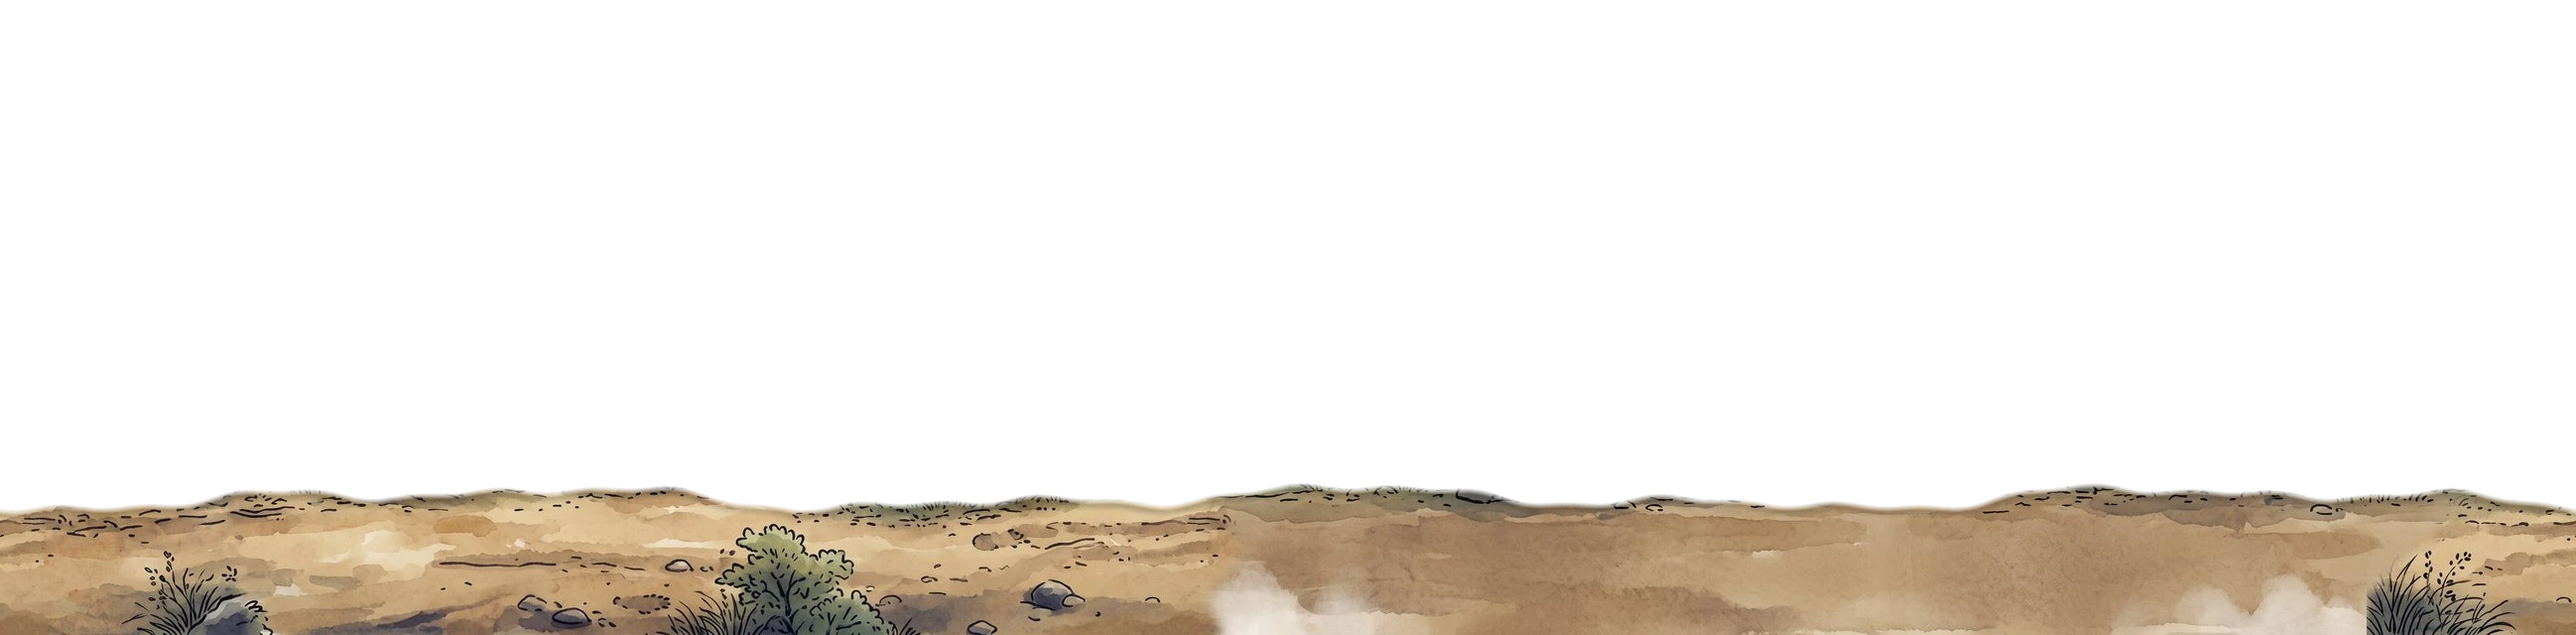
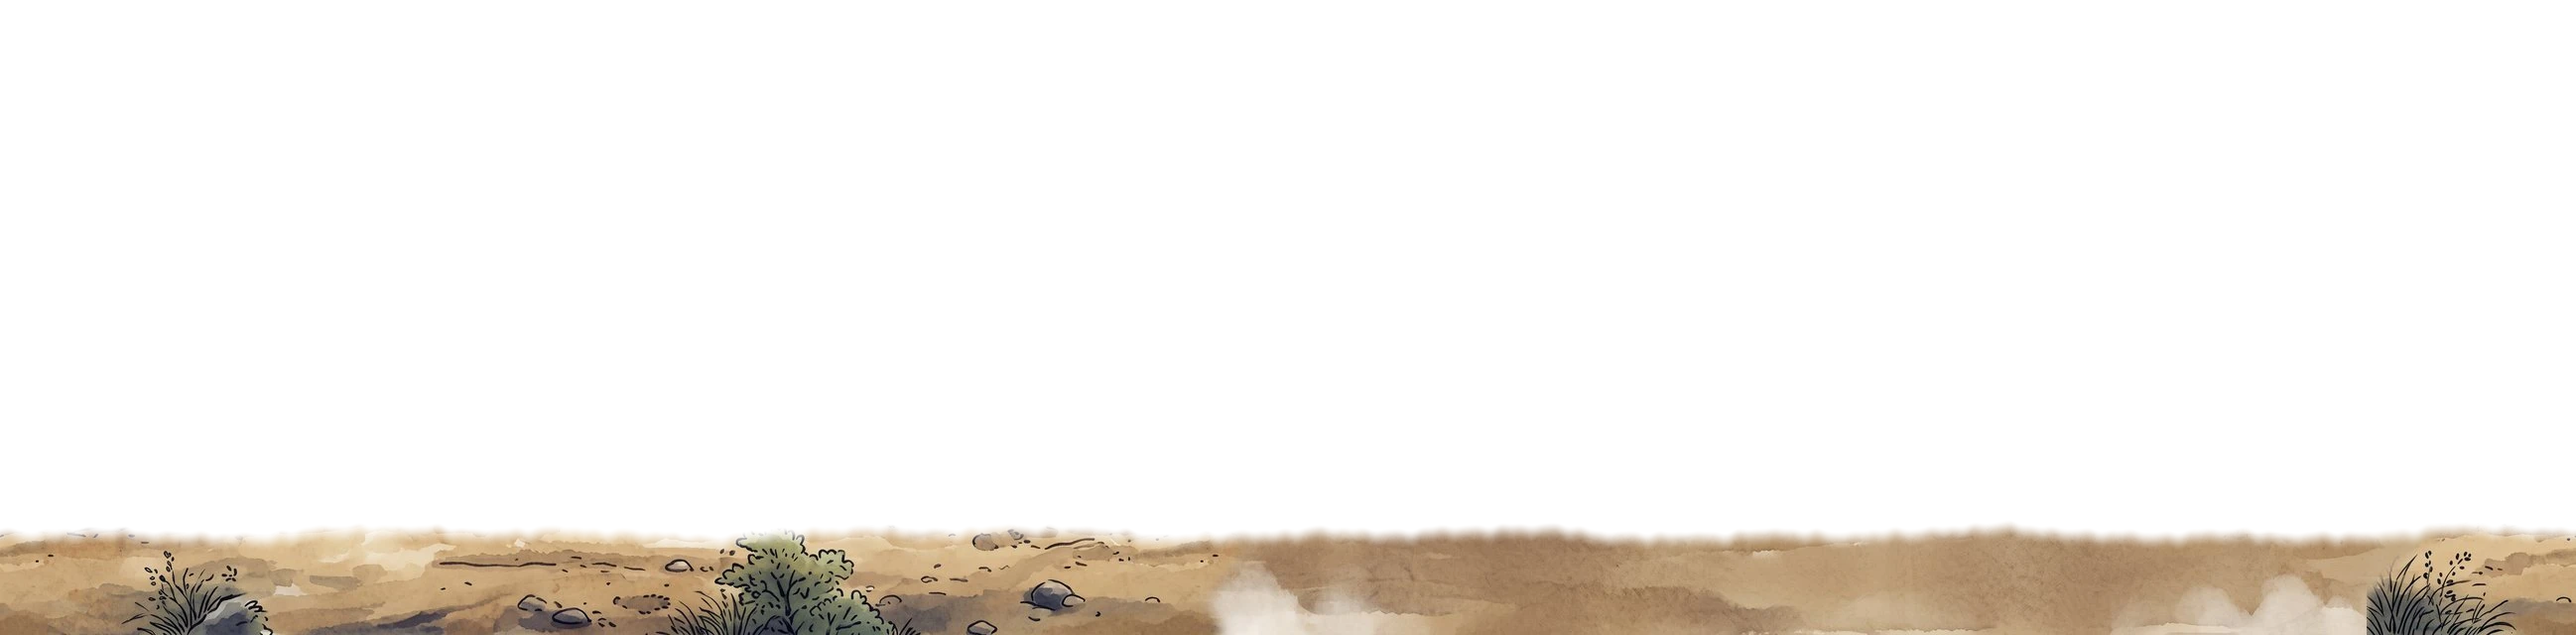
강호행: 땅 경계를 흙길 안쪽 붓질 가장자리로(찰흙 느낌 제거), 체력패를 좌상단 · 우상단에 고정(얼굴 · 이름 · 막대 · 숫자)
Claude-Session: https://claude.ai/code/session_014Zip1uwnj8BdcRP6c2R4vj

Changed region(s): [[0.0, 0.75, 1.0, 0.875]]

diff --git a/gangho/index.html b/gangho/index.html
@@ -2,21 +2,21 @@
 <html lang="ko">
 <head>
 <meta charset="utf-8">
-<meta name="game-ver" content="202610010426">
+<meta name="game-ver" content="202610010439">
 <meta name="viewport" content="width=device-width, initial-scale=1, viewport-fit=cover">
 <title>강호견문록</title>
 <link rel="preconnect" href="https://fonts.googleapis.com">
 <link rel="preconnect" href="https://fonts.gstatic.com" crossorigin>
 <link rel="stylesheet" href="https://fonts.googleapis.com/css2?family=Noto+Sans+KR:wght@400;500;700;900&family=Noto+Serif+KR:wght@400;600;700;900&display=swap">
-<link rel="stylesheet" href="css/main.css?v=202610010426">
-<link rel="stylesheet" href="css/combat.css?v=202610010426">
-<link rel="stylesheet" href="css/character.css?v=202610010426">
-<link rel="stylesheet" href="css/effects.css?v=202610010426">
-<link rel="stylesheet" href="css/art.css?v=202610010426">
+<link rel="stylesheet" href="css/main.css?v=202610010439">
+<link rel="stylesheet" href="css/combat.css?v=202610010439">
+<link rel="stylesheet" href="css/character.css?v=202610010439">
+<link rel="stylesheet" href="css/effects.css?v=202610010439">
+<link rel="stylesheet" href="css/art.css?v=202610010439">
 <link rel="preconnect" href="https://fonts.googleapis.com">
 <link rel="stylesheet" href="https://fonts.googleapis.com/css2?family=Nanum+Brush+Script&display=swap">
-<link rel="stylesheet" href="css/polish.css?v=202610010426">
-<link rel="stylesheet" href="css/admin.css?v=202610010426">
+<link rel="stylesheet" href="css/polish.css?v=202610010439">
+<link rel="stylesheet" href="css/admin.css?v=202610010439">
 </head>
 <body>
 <div class="app">
@@ -36,45 +36,45 @@
 <div id="modal" class="modal" hidden></div>
 <div id="toasts" class="toasts"></div>
 <!-- 읽는 순서: 공용 도구 → 데이터(SSOT) → 시스템(규칙) → 화면 → 초기화 -->
-<script src="js/core.js?v=202610010426"></script>
-<script src="js/data/assets.js?v=202610010426"></script>
-<script src="js/data/martial_arts.js?v=202610010426"></script>
-<script src="js/data/skills.js?v=202610010426"></script>
-<script src="js/data/items.js?v=202610010426"></script>
-<script src="js/data/recipes.js?v=202610010426"></script>
-<script src="js/data/monsters.js?v=202610010426"></script>
-<script src="js/data/drops.js?v=202610010426"></script>
-<script src="js/data/areas.js?v=202610010426"></script>
-<script src="js/data/encyclopedia_rewards.js?v=202610010426"></script>
-<script src="js/data/maps.js?v=202610010426"></script>
-<script src="js/data/sect.js?v=202610010426"></script>
-<script src="js/systems/stats_engine.js?v=202610010426"></script>
-<script src="js/systems/growth_engine.js?v=202610010426"></script>
-<script src="js/systems/inventory_engine.js?v=202610010426"></script>
-<script src="js/systems/crafting_engine.js?v=202610010426"></script>
-<script src="js/systems/expedition_engine.js?v=202610010426"></script>
-<script src="js/systems/combat_engine.js?v=202610010426"></script>
-<script src="js/systems/encyclopedia_engine.js?v=202610010426"></script>
-<script src="js/systems/sect_engine.js?v=202610010426"></script>
-<script src="js/systems/ai_engine.js?v=202610010426"></script>
-<script src="js/ui/ui_assets.js?v=202610010426"></script>
-<script src="js/ui/ui_tabs.js?v=202610010426"></script>
-<script src="js/ui/ui_logger.js?v=202610010426"></script>
-<script src="js/ui/ui_feedback.js?v=202610010426"></script>
-<script src="js/ui/ui_art.js?v=202610010426"></script>
-<script src="js/ui/ui_views.js?v=202610010426"></script>
-<script src="js/ui/ui_furnace.js?v=202610010426"></script>
-<script src="js/ui/ui_encyclopedia.js?v=202610010426"></script>
-<script src="js/ui/ui_live.js?v=202610010426"></script>
-<script src="js/ui/ui_field.js?v=202610010426"></script>
-<script src="js/ui/ui_replay.js?v=202610010426"></script>
-<script src="js/ui/ui_sprite.js?v=202610010426"></script>
-<script src="js/ui/ui_modals.js?v=202610010426"></script>
-<script src="js/ui/ui_input.js?v=202610010426"></script>
-<script src="js/ui/ui_admin.js?v=202610010426"></script>
-<script src="js/ui/ui_cloud.js?v=202610010426"></script>
-<script src="js/ui/ui_supa.js?v=202610010426"></script>
-<script src="js/ui/ui_auth.js?v=202610010426"></script>
-<script src="js/app.js?v=202610010426"></script>
+<script src="js/core.js?v=202610010439"></script>
+<script src="js/data/assets.js?v=202610010439"></script>
+<script src="js/data/martial_arts.js?v=202610010439"></script>
+<script src="js/data/skills.js?v=202610010439"></script>
+<script src="js/data/items.js?v=202610010439"></script>
+<script src="js/data/recipes.js?v=202610010439"></script>
+<script src="js/data/monsters.js?v=202610010439"></script>
+<script src="js/data/drops.js?v=202610010439"></script>
+<script src="js/data/areas.js?v=202610010439"></script>
+<script src="js/data/encyclopedia_rewards.js?v=202610010439"></script>
+<script src="js/data/maps.js?v=202610010439"></script>
+<script src="js/data/sect.js?v=202610010439"></script>
+<script src="js/systems/stats_engine.js?v=202610010439"></script>
+<script src="js/systems/growth_engine.js?v=202610010439"></script>
+<script src="js/systems/inventory_engine.js?v=202610010439"></script>
+<script src="js/systems/crafting_engine.js?v=202610010439"></script>
+<script src="js/systems/expedition_engine.js?v=202610010439"></script>
+<script src="js/systems/combat_engine.js?v=202610010439"></script>
+<script src="js/systems/encyclopedia_engine.js?v=202610010439"></script>
+<script src="js/systems/sect_engine.js?v=202610010439"></script>
+<script src="js/systems/ai_engine.js?v=202610010439"></script>
+<script src="js/ui/ui_assets.js?v=202610010439"></script>
+<script src="js/ui/ui_tabs.js?v=202610010439"></script>
+<script src="js/ui/ui_logger.js?v=202610010439"></script>
+<script src="js/ui/ui_feedback.js?v=202610010439"></script>
+<script src="js/ui/ui_art.js?v=202610010439"></script>
+<script src="js/ui/ui_views.js?v=202610010439"></script>
+<script src="js/ui/ui_furnace.js?v=202610010439"></script>
+<script src="js/ui/ui_encyclopedia.js?v=202610010439"></script>
+<script src="js/ui/ui_live.js?v=202610010439"></script>
+<script src="js/ui/ui_field.js?v=202610010439"></script>
+<script src="js/ui/ui_replay.js?v=202610010439"></script>
+<script src="js/ui/ui_sprite.js?v=202610010439"></script>
+<script src="js/ui/ui_modals.js?v=202610010439"></script>
+<script src="js/ui/ui_input.js?v=202610010439"></script>
+<script src="js/ui/ui_admin.js?v=202610010439"></script>
+<script src="js/ui/ui_cloud.js?v=202610010439"></script>
+<script src="js/ui/ui_supa.js?v=202610010439"></script>
+<script src="js/ui/ui_auth.js?v=202610010439"></script>
+<script src="js/app.js?v=202610010439"></script>
 </body>
 </html>

diff --git a/gangho/js/ui/ui_live.js b/gangho/js/ui/ui_live.js
@@ -114,6 +114,7 @@ function liveShowStart(sc, sh) {
   for (const f of sh.rec ? sh.rec.rounds.flatMap(r => r.fx) : []) if (f.mid && f.n) preloadImgs([SPRITE_SRC.fx(`${f.mid}_${Math.min(2, f.n)}`)]);
   liveHp(sc, 'me', sh.rec ? sh.rec.start.me.hp : 1, sh.rec ? sh.rec.start.me.maxHp : 1);
   liveHp(sc, 'foe', sh.rec ? sh.rec.start.foe.hp : 1, sh.rec ? sh.rec.start.foe.maxHp : 1, ENEMIES[sh.eid].name);
+  const ff = sc.querySelector('.live-hp.foe .lh-face'); if (ff) ff.style.backgroundImage = `url('${ASSET.beast(sh.eid)}')`;
   Object.assign(sh, { n, skill: sk, heavy: sh.boss || size >= 1.05, base: Math.max(4, Math.round(calculateCombatPower(S) / 12)), phase: 'approach', x0: liveAnim.x, t0: 0, q: null, bf: 0, bt: 0 });
   sc.classList.add('approach');
   return sh;
@@ -129,7 +130,6 @@ function liveShowStep(sc, sh, ts, dt) {
     foe.style.left = sh.foeX + '%'; sh.phase = 'fight'; sh.t0 = ts; sh.q = liveShowPlan(sh, hero.dataset.w || weaponType());
     sc.classList.remove('approach'); sc.classList.add('fight');
     hero.style.left = LIVE_POS.hero + '%'; hero.dataset.f = 0;
-    livePlaceHp(sc, hero, foe, sh.eid);              // 제자 · 요수가 보인 뒤에 머리 위 자리를 잰다
     if (sh.boss) {                                    // 두목: 무대가 어두워지고 큰 깃발 · 땅울림
       const bn = sc.querySelector('.live-boss'); if (bn) bn.querySelector('b').textContent = ENEMIES[sh.eid].name;
       sc.classList.remove('boss'); void sc.offsetWidth; sc.classList.add('boss'); setTimeout(() => sc.classList.remove('boss'), 3200);
@@ -166,19 +166,12 @@ function liveShowStep(sc, sh, ts, dt) {
   return false;
 }
 /* 무대 위 활력 막대 (맞붙는 동안만): who = me · foe */
-/* 체력바를 인물 머리 위에 (그림 칸 안 머리 높이는 FOE_TOP · 제자 0.03) */
-function livePlaceHp(sc, hero, foe, eid) {
-  const R = sc.getBoundingClientRect(); if (!R.width) return;
-  for (const [el, who, top] of [[hero, 'me', .03], [foe, 'foe', FOE_TOP[eid] ?? .1]]) {
-    const b = sc.querySelector(`.live-hp.${who}`), r = el && el.getBoundingClientRect(); if (!b || !r || !r.width) continue;
-    const cx = (r.left + r.width * (who === 'me' ? .43 : .5) - R.left) / R.width * 100, y = (r.top + r.height * top - R.top) / R.height * 100;
-    b.style.left = clamp(cx - 11, 1, 77) + '%'; b.style.top = 'auto'; b.style.bottom = clamp(100 - y + .5, 0, 88) + '%';
-  }
-}
 function liveHp(sc, who, hp, max, name) {
   const el = sc.querySelector(`.live-hp.${who}`); if (!el) return;
   if (max) { el.dataset.max = max; if (name !== undefined) el.querySelector('b').textContent = name; }
-  const m = +el.dataset.max || 1; el.querySelector('i').style.width = clamp(hp / m * 100, 0, 100).toFixed(1) + '%';
+  const m = +el.dataset.max || 1, r = clamp(hp / m, 0, 1);
+  el.querySelector('i').style.width = (r * 100).toFixed(1) + '%'; el.classList.toggle('low', r < .3);
+  const n = el.querySelector('em'); if (n) n.textContent = `${fmt(Math.max(0, Math.round(hp)))} / ${fmt(m)}`;
   if (who === 'me' && liveAnim.hold) {                // 옆 패널 활력 막대도 무대와 같이
     liveAnim.hold.hp = hp; const mx = calcStats().maxHp, bar = document.querySelector('#liveSide .live-prog.hp span'), tx = document.querySelector('#liveSide .live-vit-hp');
     if (bar) bar.style.width = clamp(hp / mx * 100, 0, 100).toFixed(1) + '%'; if (tx) tx.textContent = `활력 ${fmt(Math.round(hp))} / ${fmt(mx)}`;
@@ -275,7 +268,8 @@ function liveScene(r) {
     <div class="sp-fighter live-walker ${fast ? 'fast' : ''}" id="liveWalker_${w}${fast ? '_f' : ''}" data-w="${w}" ${fast ? 'data-fast="1"' : ''}>${fast ? spr('walk-spr walk-ghost g1') + spr('walk-spr walk-ghost g2') : ''}<i class="sp-shadow"></i>${spr('walk-spr')}</div>
     <div class="sp-fighter sp-hero live-hero" id="liveHero" data-f="0" data-w="${w}" data-anim><i class="sp-shadow"></i><div class="sp-spr" style="background-image:url('${SPRITE_SRC.hero(w)}')"></div></div>
     <div class="sp-fighter sp-foe flip fsheet live-foe" id="liveFoe" data-anim><i class="sp-shadow"></i><div class="sp-fspr" data-anim></div><div class="sp-fatk" data-anim></div></div>
-    <div class="live-hp me" data-anim><b>${esc(S.name)}</b><i></i></div><div class="live-hp foe" data-anim><b></b><i></i></div>
+    <div class="live-hp me" data-anim><span class="lh-face" style="background-image:url('${ASSET.portrait('hero')}')"></span><div class="lh-body"><b>${esc(S.name)}</b><span class="lh-bar"><i></i></span><em></em></div></div>
+    <div class="live-hp foe" data-anim><span class="lh-face"></span><div class="lh-body"><b></b><span class="lh-bar"><i></i></span><em></em></div></div>
     <i class="live-tint"></i>
     <img class="live-enc" src="${ASSET.ui('b_encounter')}" alt="">
     <div class="live-boss"><small>頭目 出現</small><b></b></div>

diff --git a/gangho/css/art.css b/gangho/css/art.css
@@ -505,7 +505,7 @@
 /* 원근 두 겹: 먼 겹은 살짝 흐리고 느리게, 가까운 겹은 발밑 땅만 (위쪽은 부드럽게 사라진다) */
 .live-world.far { filter: blur(.6px) saturate(.9); }
 /* 앞 겹(땅) 둔덕 윗선 위를 옅은 땅안개로 */
-.live-mist { position: absolute; left: 0; right: 0; top: 73%; height: 12%; z-index: 1; pointer-events: none; -webkit-backdrop-filter: blur(3px); backdrop-filter: blur(3px);
+.live-mist { position: absolute; left: 0; right: 0; top: 77%; height: 13%; z-index: 1; pointer-events: none; -webkit-backdrop-filter: blur(3px); backdrop-filter: blur(3px);
   background: linear-gradient(to bottom, rgba(236, 230, 214, 0), rgba(236, 230, 214, .22) 50%, rgba(236, 230, 214, 0));
   -webkit-mask-image: linear-gradient(to bottom, transparent, #000 35%, #000 65%, transparent); mask-image: linear-gradient(to bottom, transparent, #000 35%, #000 65%, transparent); }
 
@@ -560,10 +560,22 @@
 .stage-info { margin: 0; font-size: 12.5px; display: flex; flex-wrap: wrap; align-items: center; gap: 4px 8px; }
 .stage-info .chip.sm { padding: 1px 8px; font-size: 11.5px; margin-left: auto; }
 /* 맞붙는 동안 무대 위 활력 막대 · 회복 숫자 */
-.live-hp { position: absolute; z-index: 6; top: 22%; width: 22%; display: none; pointer-events: none; }
-.live-hp.me { left: 22%; } .live-hp.foe { left: 60%; }
-.live-scene.fight .live-hp { display: block; }
-.live-hp b { display: block; font: 700 10.5px/1.3 sans-serif; color: #fff; text-shadow: 0 1px 2px #000; white-space: nowrap; overflow: hidden; text-overflow: ellipsis; }
-.live-hp i { display: block; height: 5px; border-radius: 3px; background: linear-gradient(90deg, #8a2a1a, #e05a3a); box-shadow: 0 0 0 1px rgba(0, 0, 0, .55); transition: width .25s; }
-.live-hp.me i { background: linear-gradient(90deg, #2a6a3a, #5ac06a); }
+.live-hp { position: absolute; z-index: 6; top: 8px; width: 40%; max-width: 230px; display: none; align-items: center; gap: 6px; padding: 4px 8px 4px 4px; pointer-events: none;
+  border-radius: 999px 10px 10px 999px; background: linear-gradient(90deg, rgba(18, 16, 14, .78), rgba(18, 16, 14, .5)); box-shadow: inset 0 0 0 1px rgba(212, 175, 55, .55), 0 2px 6px rgba(0, 0, 0, .35); }
+.live-hp.me { left: 8px; }
+.live-hp.foe { right: 8px; flex-direction: row-reverse; padding: 4px 4px 4px 8px; border-radius: 10px 999px 999px 10px; background: linear-gradient(270deg, rgba(18, 16, 14, .78), rgba(18, 16, 14, .5)); }
+.live-scene.fight .live-hp { display: flex; }
+.live-scene.fight .live-where { opacity: 0; }
+.lh-face { flex: none; width: 30px; height: 30px; border-radius: 50%; background: #2a241c center 18% / cover no-repeat; box-shadow: 0 0 0 1.5px #d4af37, 0 0 6px rgba(212, 175, 55, .45); }
+.live-hp.foe .lh-face { background-size: contain; background-position: center; background-color: #e8e0cc; }
+.lh-body { flex: 1; min-width: 0; display: grid; grid-template-columns: 1fr auto; align-items: center; column-gap: 6px; row-gap: 2px; }
+.live-hp.foe .lh-body b { text-align: right; } .live-hp.foe .lh-body em { order: -1; }
+.lh-body b { font: 700 11px/1.2 serif; color: #f3e6c4; letter-spacing: .04em; text-shadow: 0 1px 2px #000; white-space: nowrap; overflow: hidden; text-overflow: ellipsis; }
+.lh-body em { font: 600 9.5px/1.2 sans-serif; font-style: normal; white-space: nowrap; color: rgba(243, 230, 196, .75); font-variant-numeric: tabular-nums; }
+.lh-bar { grid-column: 1 / -1; position: relative; height: 6px; border-radius: 3px; background: rgba(0, 0, 0, .55); box-shadow: inset 0 0 0 1px rgba(212, 175, 55, .3); overflow: hidden; }
+.lh-bar i { position: absolute; inset: 0 auto 0 0; display: block; border-radius: 3px; background: linear-gradient(180deg, #ef7a5a, #b8321e); transition: width .3s; }
+.live-hp.foe .lh-bar i { left: auto; right: 0; }
+.live-hp.me .lh-bar i { background: linear-gradient(180deg, #8fd88a, #2f8a42); }
+.live-hp.low .lh-bar i { animation: lhLow 1s ease-in-out infinite; }
+@keyframes lhLow { 50% { filter: brightness(1.5); } }
 .sp-num.heal { color: #7ee08a; }

diff --git a/gangho/admin.html b/gangho/admin.html
@@ -2,10 +2,10 @@
 <html lang="ko">
 <head>
 <meta charset="utf-8">
-<meta name="game-ver" content="202610010426">
+<meta name="game-ver" content="202610010439">
 <meta name="viewport" content="width=device-width, initial-scale=1">
 <title>강호견문록 GM</title>
-<link rel="stylesheet" href="css/admin.css?v=202610010426">
+<link rel="stylesheet" href="css/admin.css?v=202610010439">
 </head>
 <body class="gm-standalone">
 <!-- 운영자 관리자 창: 게임 창(index.html)과 BroadcastChannel로 이어진다. 같은 폴더(같은 출처)에서 열어야 한다. -->
@@ -17,30 +17,30 @@
   const $ = sel => document.querySelector(sel);
 </script>
 <!-- 데이터와 규칙 엔진은 DOM을 모르므로 그대로 읽어 복사본으로 계산한다 (화면 계층·app.js는 읽지 않음) -->
-<script src="js/core.js?v=202610010426"></script>
-<script src="js/data/assets.js?v=202610010426"></script>
-<script src="js/data/martial_arts.js?v=202610010426"></script>
-<script src="js/data/skills.js?v=202610010426"></script>
-<script src="js/data/items.js?v=202610010426"></script>
-<script src="js/data/recipes.js?v=202610010426"></script>
-<script src="js/data/monsters.js?v=202610010426"></script>
-<script src="js/data/drops.js?v=202610010426"></script>
-<script src="js/data/areas.js?v=202610010426"></script>
-<script src="js/data/encyclopedia_rewards.js?v=202610010426"></script>
-<script src="js/data/maps.js?v=202610010426"></script>
-<script src="js/data/sect.js?v=202610010426"></script>
-<script src="js/systems/stats_engine.js?v=202610010426"></script>
-<script src="js/systems/growth_engine.js?v=202610010426"></script>
-<script src="js/systems/inventory_engine.js?v=202610010426"></script>
-<script src="js/systems/crafting_engine.js?v=202610010426"></script>
-<script src="js/systems/expedition_engine.js?v=202610010426"></script>
-<script src="js/systems/combat_engine.js?v=202610010426"></script>
-<script src="js/systems/encyclopedia_engine.js?v=202610010426"></script>
-<script src="js/systems/sect_engine.js?v=202610010426"></script>
-<script src="js/systems/ai_engine.js?v=202610010426"></script>
-<script src="js/ui/ui_assets.js?v=202610010426"></script>
-<script src="js/ui/ui_admin.js?v=202610010426"></script>
-<script src="js/ui/ui_supa.js?v=202610010426"></script>
+<script src="js/core.js?v=202610010439"></script>
+<script src="js/data/assets.js?v=202610010439"></script>
+<script src="js/data/martial_arts.js?v=202610010439"></script>
+<script src="js/data/skills.js?v=202610010439"></script>
+<script src="js/data/items.js?v=202610010439"></script>
+<script src="js/data/recipes.js?v=202610010439"></script>
+<script src="js/data/monsters.js?v=202610010439"></script>
+<script src="js/data/drops.js?v=202610010439"></script>
+<script src="js/data/areas.js?v=202610010439"></script>
+<script src="js/data/encyclopedia_rewards.js?v=202610010439"></script>
+<script src="js/data/maps.js?v=202610010439"></script>
+<script src="js/data/sect.js?v=202610010439"></script>
+<script src="js/systems/stats_engine.js?v=202610010439"></script>
+<script src="js/systems/growth_engine.js?v=202610010439"></script>
+<script src="js/systems/inventory_engine.js?v=202610010439"></script>
+<script src="js/systems/crafting_engine.js?v=202610010439"></script>
+<script src="js/systems/expedition_engine.js?v=202610010439"></script>
+<script src="js/systems/combat_engine.js?v=202610010439"></script>
+<script src="js/systems/encyclopedia_engine.js?v=202610010439"></script>
+<script src="js/systems/sect_engine.js?v=202610010439"></script>
+<script src="js/systems/ai_engine.js?v=202610010439"></script>
+<script src="js/ui/ui_assets.js?v=202610010439"></script>
+<script src="js/ui/ui_admin.js?v=202610010439"></script>
+<script src="js/ui/ui_supa.js?v=202610010439"></script>
 <script>gmRemoteInit();</script>
 </body>
 </html>
